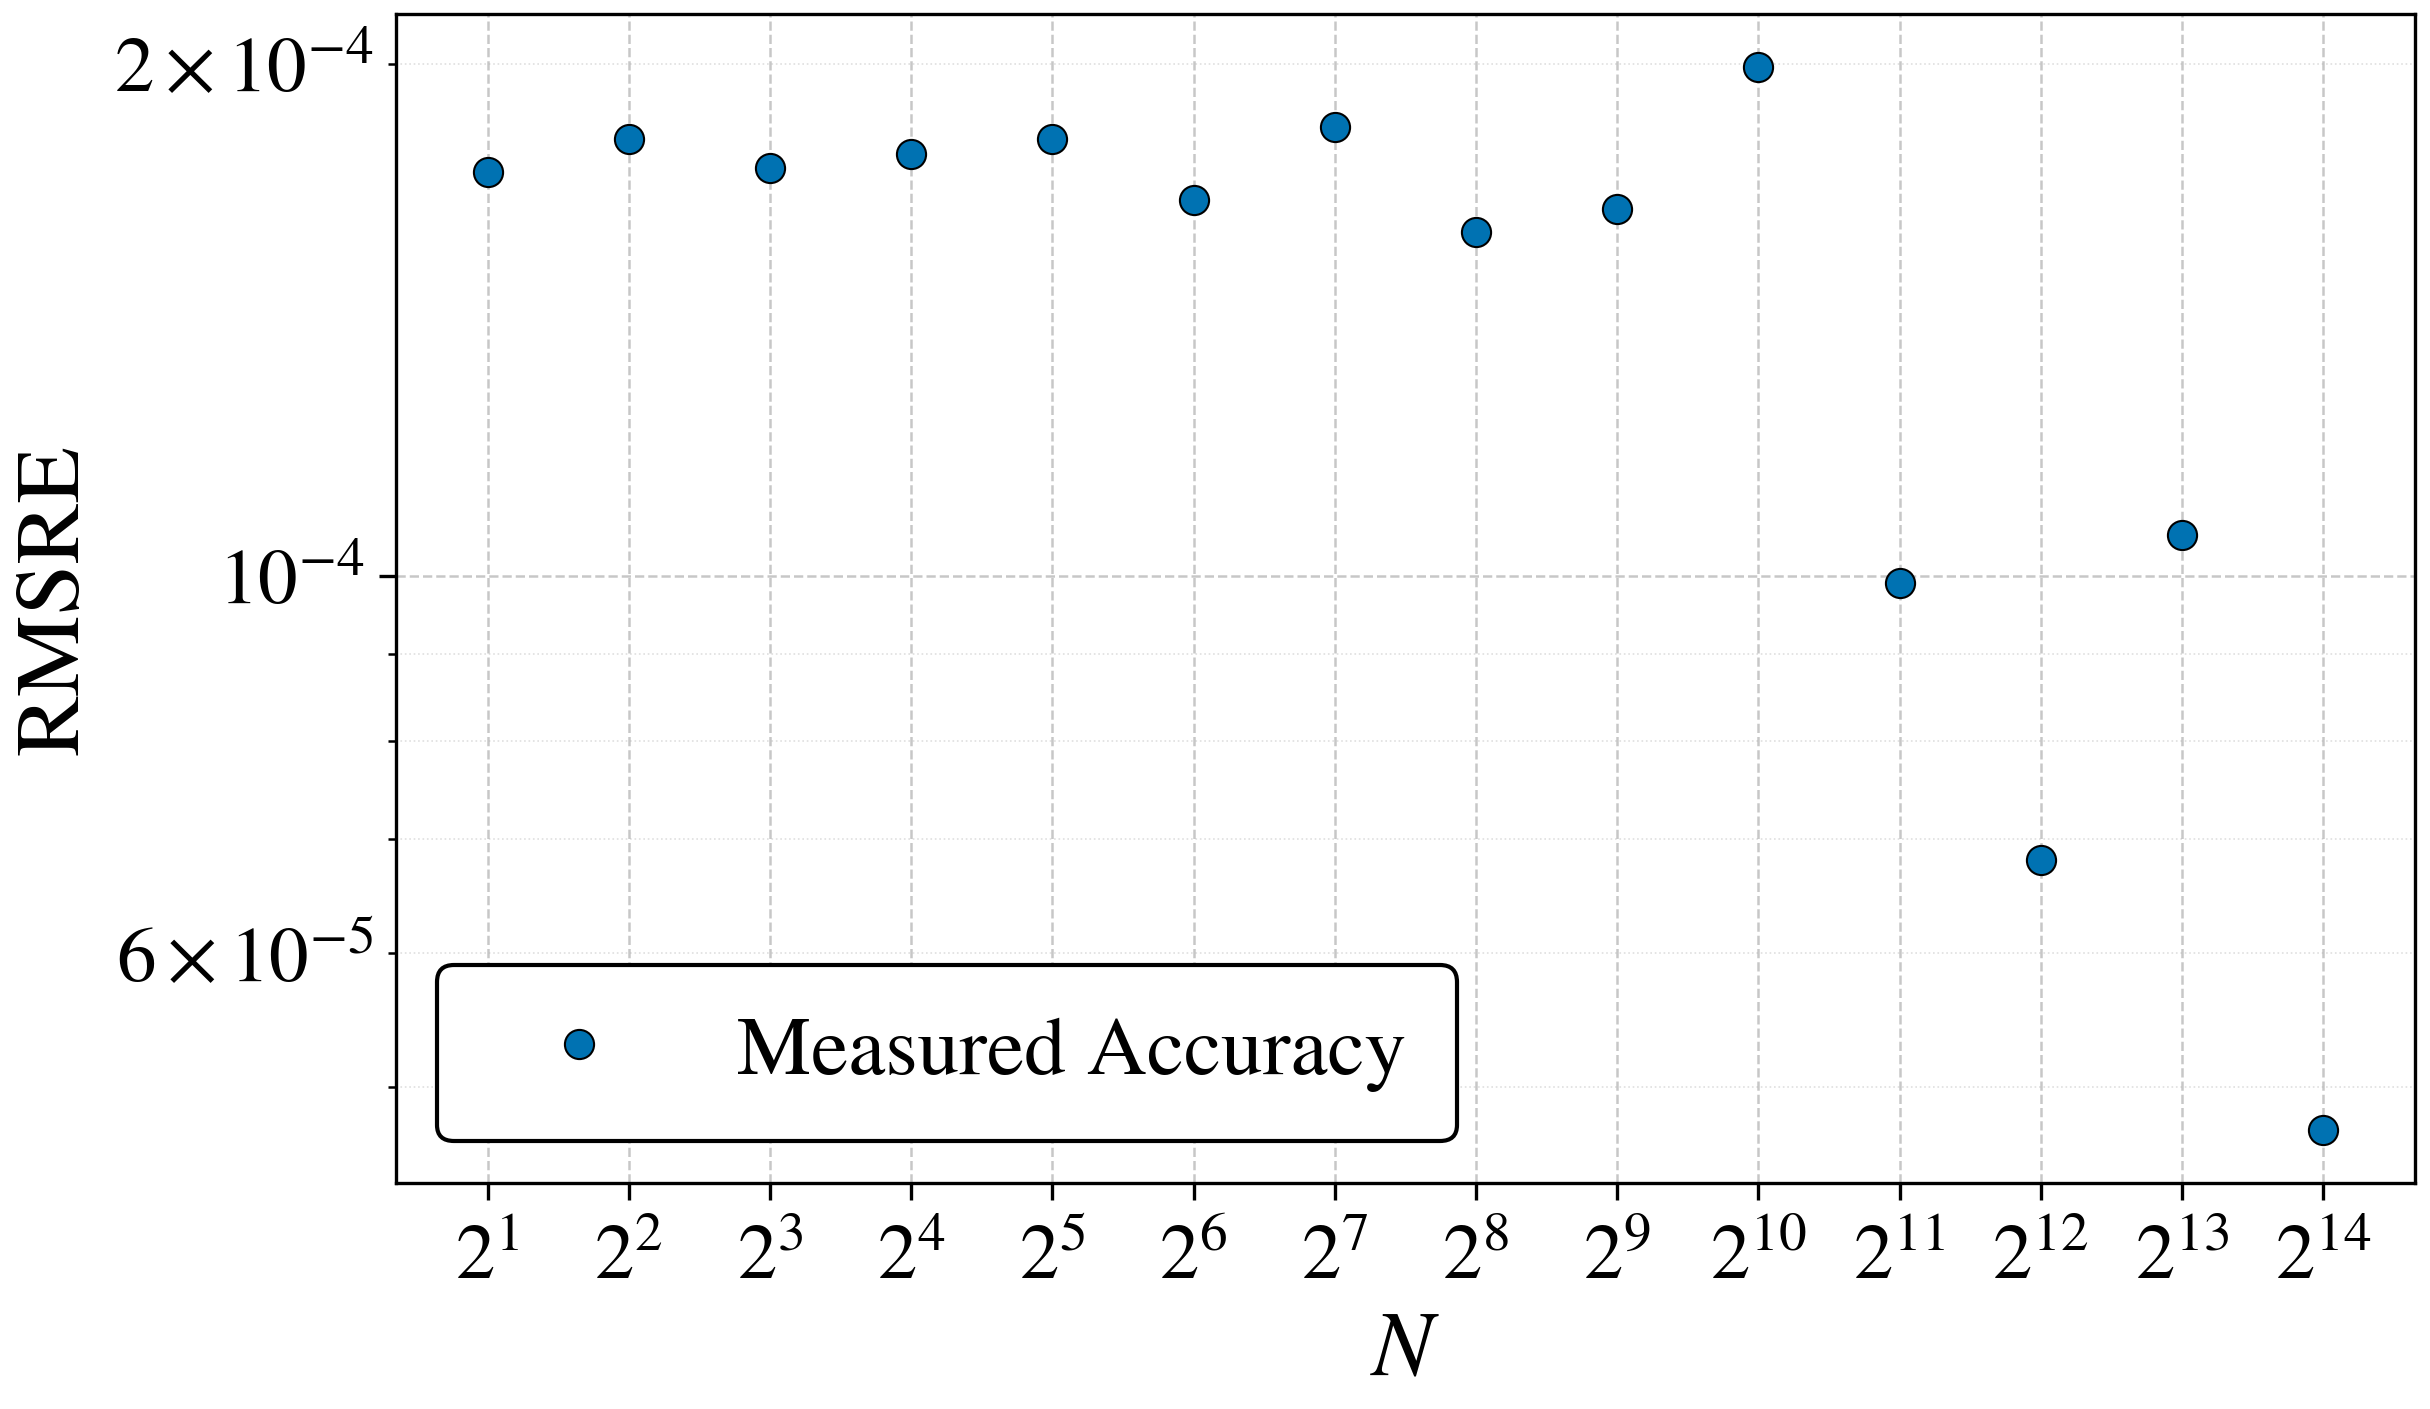
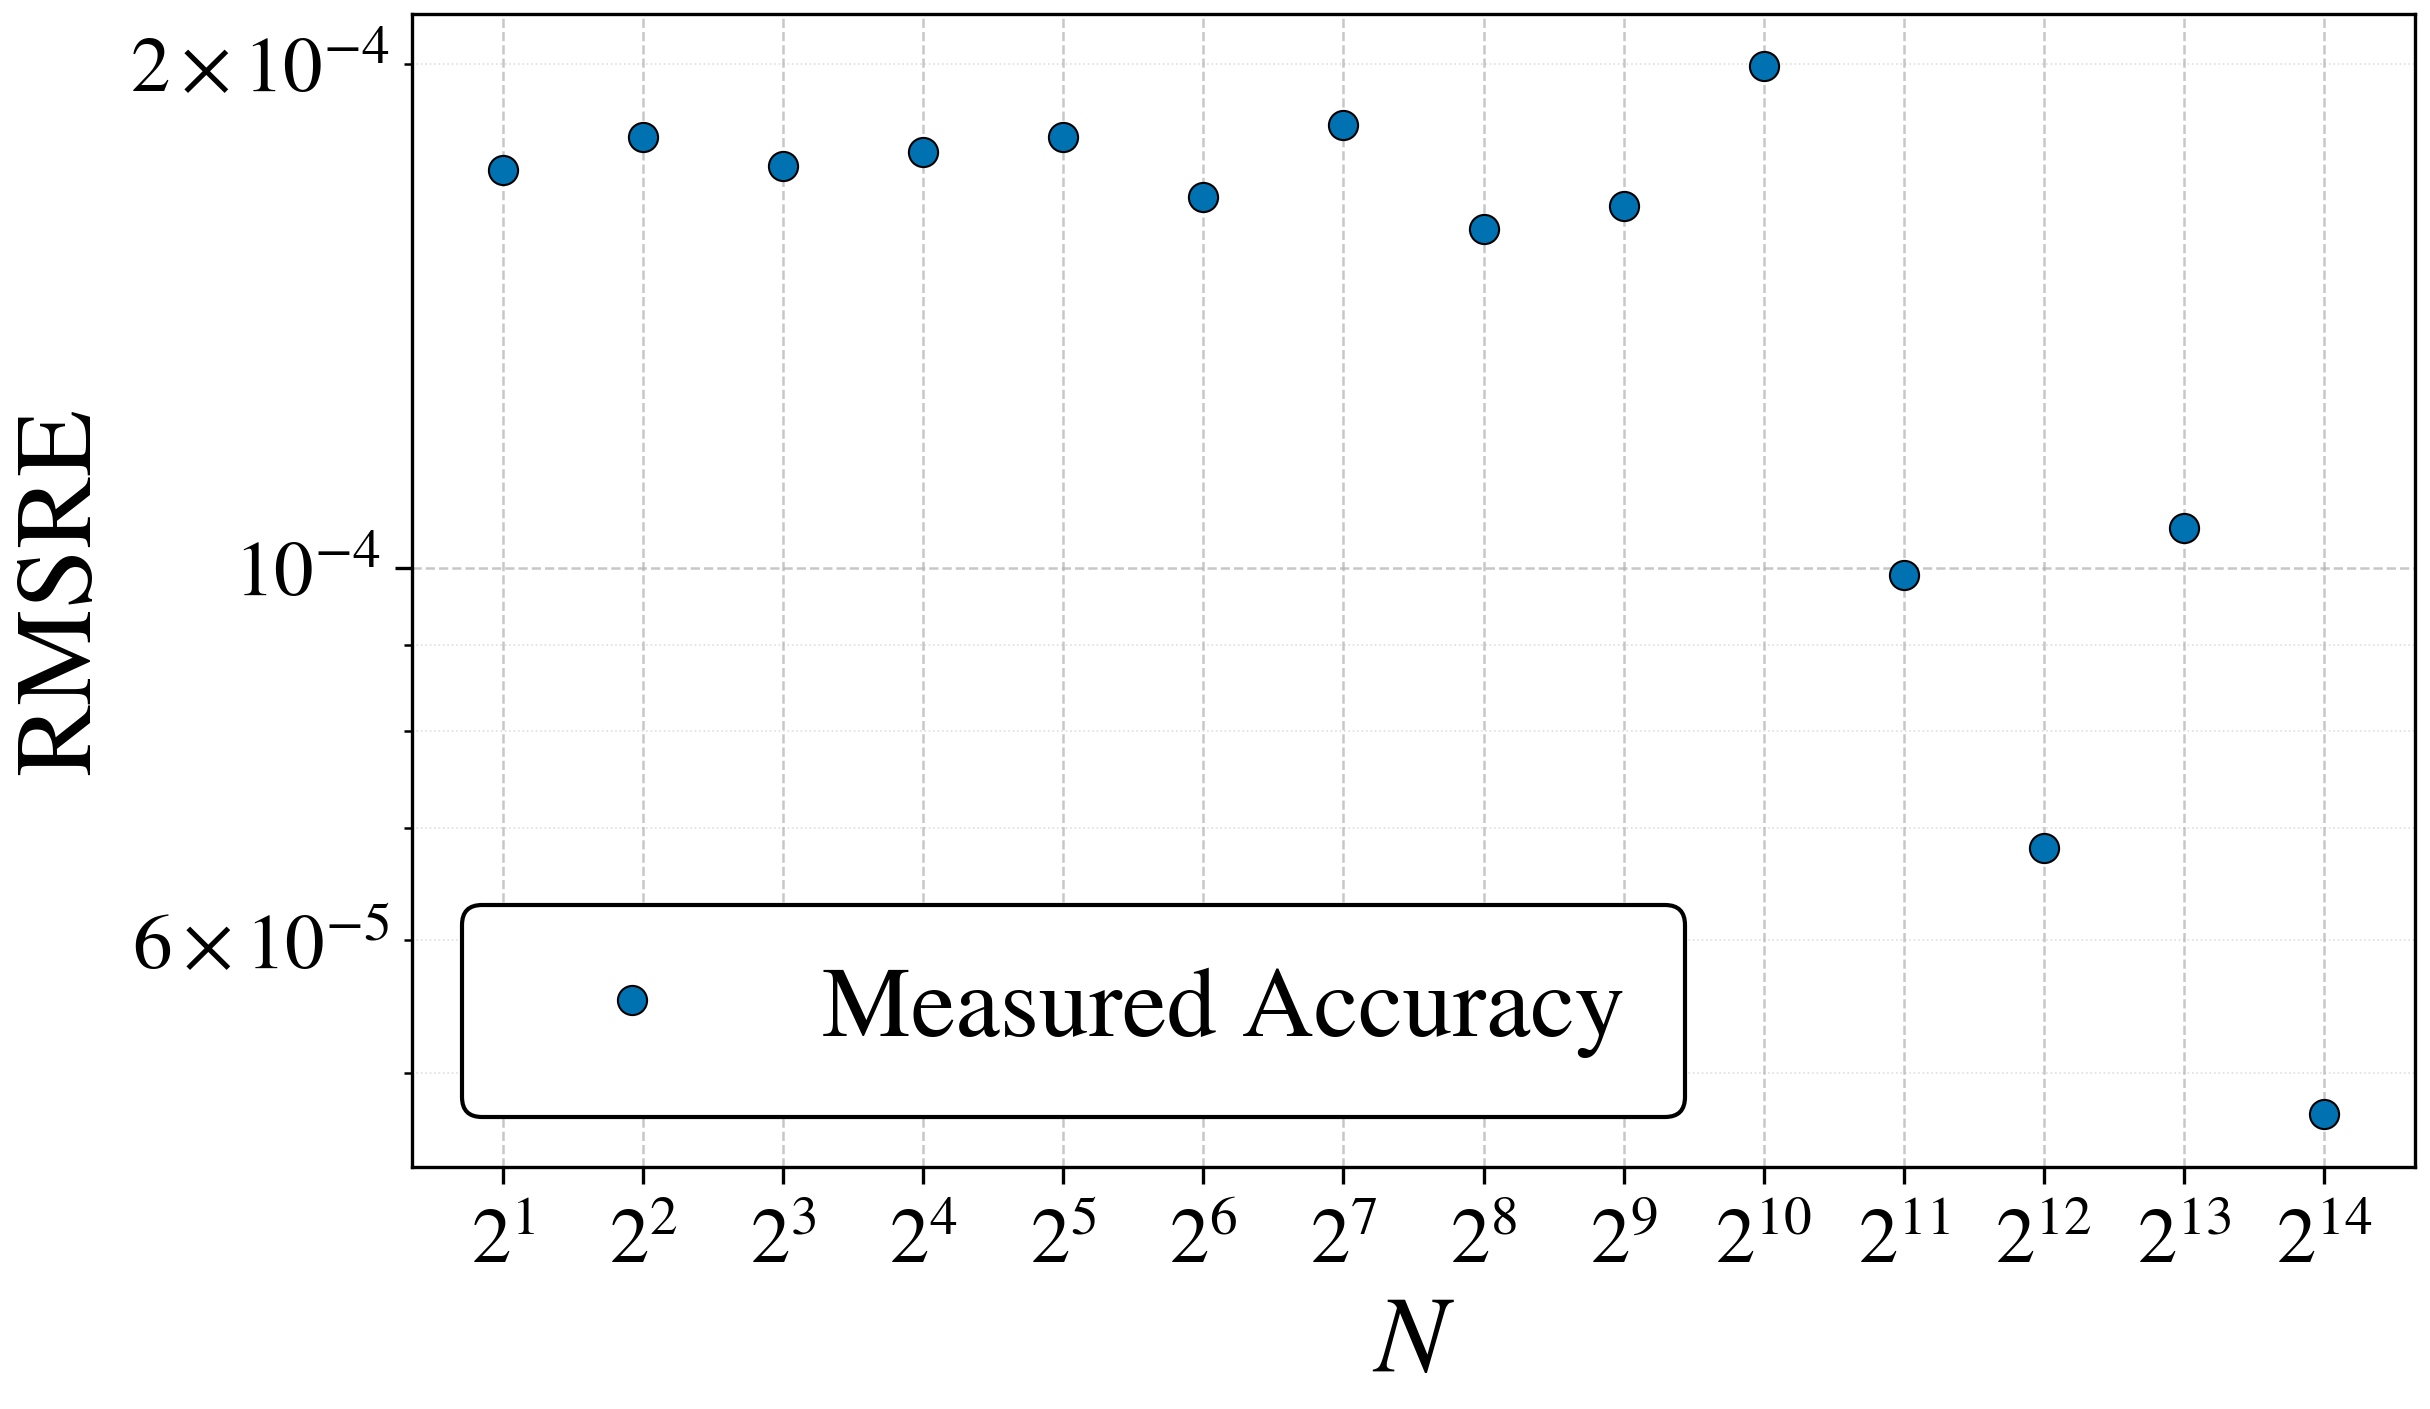
m

diff --git a/evaluation/layernorm/N_sweep/scripts/plot_accuracy.py b/evaluation/layernorm/N_sweep/scripts/plot_accuracy.py
@@ -163,10 +163,10 @@ def configure_style() -> None:
             # Typographic sizes tuned for a ~half-to-full text-width figure.
             "font.size": 20,
             "axes.titlesize": 22,
-            "axes.labelsize": 22,
+            "axes.labelsize": 26,
             "xtick.labelsize": 19,
             "ytick.labelsize": 19,
-            "legend.fontsize": 20,
+            "legend.fontsize": 24,
             # Full black frame (all four spines) with outward ticks.
             "axes.linewidth": 0.8,
             "axes.edgecolor": "black",

diff --git a/evaluation/layernorm/N_sweep/scripts/plot_resources.py b/evaluation/layernorm/N_sweep/scripts/plot_resources.py
@@ -146,10 +146,10 @@ def configure_style() -> None:
             "axes.unicode_minus": True,
             "font.size": 20,
             "axes.titlesize": 22,
-            "axes.labelsize": 22,
+            "axes.labelsize": 26,
             "xtick.labelsize": 19,
             "ytick.labelsize": 19,
-            "legend.fontsize": 20,
+            "legend.fontsize": 24,
             "axes.linewidth": 0.8,
             "axes.edgecolor": "black",
             "xtick.direction": "out",
